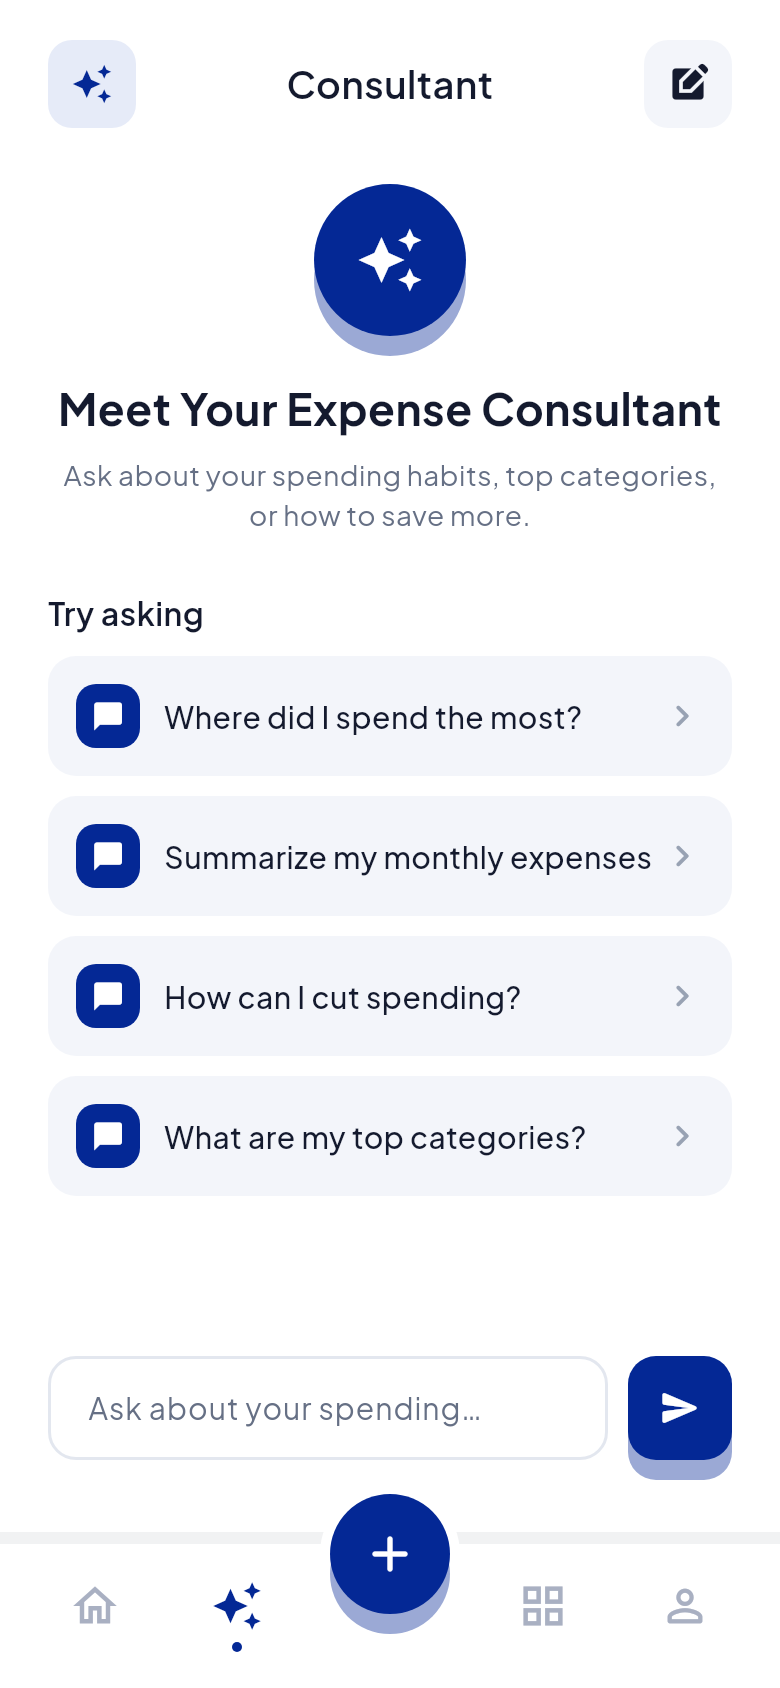
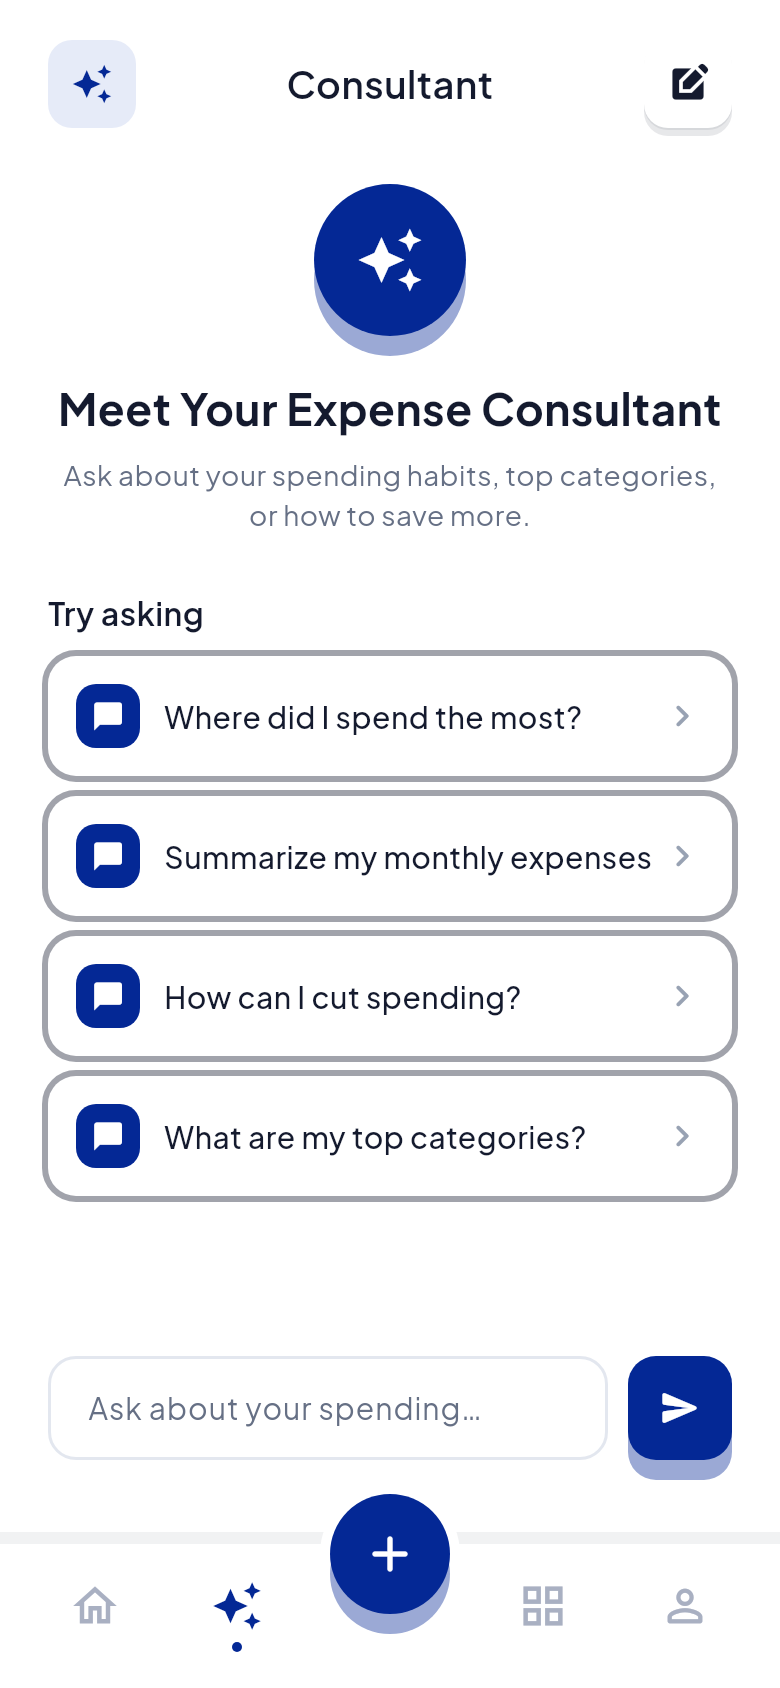
Theme work in progress

Changed region(s): [[0.0308, 0.3697, 0.9538, 0.7085], [0.0923, 0.7085, 0.9231, 0.7393], [0.0308, 0.6469, 0.0923, 0.7085]]

diff --git a/lib/core/theme/widgets.dart b/lib/core/theme/widgets.dart
@@ -4,6 +4,62 @@ import 'tokens.dart';
 
 bool isDarkOf(BuildContext context) => Theme.of(context).brightness == Brightness.dark;
 
+/// Raised surface for icon buttons, chips and small panels: white with a
+/// soft drop shadow in light mode (no grey fill); a lifted dark tone in dark.
+BoxDecoration raisedDecoration(
+  BuildContext context, {
+  double radius = AppRadius.md,
+  List<BoxShadow> shadow = AppShadows.iconButton,
+  BoxShape shape = BoxShape.rectangle,
+}) {
+  final dark = isDarkOf(context);
+  return BoxDecoration(
+    color: dark ? AppColors.darkSurfaceSubtle : Colors.white,
+    shape: shape,
+    borderRadius: shape == BoxShape.circle ? null : BorderRadius.circular(radius),
+    boxShadow: dark ? null : shadow,
+  );
+}
+
+/// For [Material]-based chips and cards: white, lifted by elevation.
+Color raisedColor(BuildContext context) => isDarkOf(context) ? AppColors.darkSurfaceSubtle : Colors.white;
+double raisedElevation(BuildContext context) => isDarkOf(context) ? 0 : 3;
+const raisedShadowColor = Color(0x66141A2E);
+
+/// [Material] + [InkWell] on top of [raisedDecoration] so taps ripple.
+class RaisedSurface extends StatelessWidget {
+  const RaisedSurface({
+    super.key,
+    required this.child,
+    this.onTap,
+    this.radius = AppRadius.md,
+    this.shadow = AppShadows.iconButton,
+    this.inkKey,
+  });
+
+  final Widget child;
+  final VoidCallback? onTap;
+  final double radius;
+  final List<BoxShadow> shadow;
+  final Key? inkKey;
+
+  @override
+  Widget build(BuildContext context) {
+    return DecoratedBox(
+      decoration: raisedDecoration(context, radius: radius, shadow: shadow),
+      child: Material(
+        type: MaterialType.transparency,
+        child: InkWell(
+          key: inkKey,
+          borderRadius: BorderRadius.circular(radius),
+          onTap: onTap,
+          child: child,
+        ),
+      ),
+    );
+  }
+}
+
 /// 44px soft-grey square icon button used in every screen header.
 class SquareIconButton extends StatelessWidget {
   const SquareIconButton({
@@ -24,17 +80,12 @@ class SquareIconButton extends StatelessWidget {
     final scheme = Theme.of(context).colorScheme;
     return Tooltip(
       message: tooltip,
-      child: Material(
-        color: scheme.surfaceContainerHighest,
-        borderRadius: BorderRadius.circular(AppRadius.md),
-        child: InkWell(
-          borderRadius: BorderRadius.circular(AppRadius.md),
-          onTap: onTap,
-          child: SizedBox(
-            width: 44,
-            height: 44,
-            child: Icon(icon, size: 21, color: color ?? scheme.onSurface, semanticLabel: tooltip),
-          ),
+      child: RaisedSurface(
+        onTap: onTap,
+        child: SizedBox(
+          width: 44,
+          height: 44,
+          child: Icon(icon, size: 21, color: color ?? scheme.onSurface, semanticLabel: tooltip),
         ),
       ),
     );

diff --git a/lib/features/consultant/ui/consultant_screen.dart b/lib/features/consultant/ui/consultant_screen.dart
@@ -193,7 +193,9 @@ class _ConsultantScreenState extends State<ConsultantScreen> {
             Padding(
               padding: const EdgeInsets.only(bottom: 10),
               child: Material(
-                color: scheme.surfaceContainerHighest,
+                color: raisedColor(context),
+                elevation: raisedElevation(context),
+                shadowColor: raisedShadowColor,
                 borderRadius: BorderRadius.circular(AppRadius.lg),
                 child: InkWell(
                   onTap: () => _handleSend(prompt),
@@ -238,7 +240,7 @@ class _ConsultantScreenState extends State<ConsultantScreen> {
     final bubble = Container(
       padding: EdgeInsets.symmetric(horizontal: 16, vertical: isUser ? 12 : 14),
       decoration: BoxDecoration(
-        color: isUser ? scheme.primary : scheme.surfaceContainerHighest,
+        color: isUser ? scheme.primary : (isDarkOf(context) ? AppColors.darkSurfaceSubtle : const Color(0xFFF7F8FC)),
         borderRadius: BorderRadius.only(
           topLeft: Radius.circular(isUser ? 18 : 4),
           topRight: const Radius.circular(18),
@@ -299,7 +301,9 @@ class _ConsultantScreenState extends State<ConsultantScreen> {
           final first = index == 0;
           return Material(
             key: Key('consultant-chip-$index'),
-            color: first ? scheme.primaryContainer : scheme.surfaceContainerHighest,
+            color: first ? scheme.primaryContainer : raisedColor(context),
+            elevation: first ? 0 : raisedElevation(context),
+            shadowColor: raisedShadowColor,
             borderRadius: BorderRadius.circular(10),
             child: InkWell(
               borderRadius: BorderRadius.circular(10),

diff --git a/lib/core/theme/theme_toggle_button.dart b/lib/core/theme/theme_toggle_button.dart
@@ -2,7 +2,7 @@ import 'package:flutter/material.dart';
 import 'package:flutter_bloc/flutter_bloc.dart';
 
 import 'theme_cubit.dart';
-import 'tokens.dart';
+import 'widgets.dart';
 
 /// Square sun/moon header button that flips between light and dark mode.
 class ThemeToggleButton extends StatelessWidget {
@@ -16,14 +16,10 @@ class ThemeToggleButton extends StatelessWidget {
 
     return Tooltip(
       message: label,
-      child: Material(
-        color: scheme.surfaceContainerHighest,
-        borderRadius: BorderRadius.circular(AppRadius.md),
-        child: InkWell(
-          key: const Key('theme-toggle'),
-          borderRadius: BorderRadius.circular(AppRadius.md),
-          onTap: () => context.read<ThemeCubit>().toggle(),
-          child: SizedBox(
+      child: RaisedSurface(
+        inkKey: const Key('theme-toggle'),
+        onTap: () => context.read<ThemeCubit>().toggle(),
+        child: SizedBox(
             width: 44,
             height: 44,
             child: AnimatedSwitcher(
@@ -41,7 +37,6 @@ class ThemeToggleButton extends StatelessWidget {
               ),
             ),
           ),
-        ),
       ),
     );
   }

diff --git a/lib/features/expenses/ui/expense_form_sheet.dart b/lib/features/expenses/ui/expense_form_sheet.dart
@@ -260,10 +260,7 @@ class _WeekStrip extends StatelessWidget {
     return Container(
       key: const Key('week-strip'),
       padding: const EdgeInsets.fromLTRB(8, 8, 8, 12),
-      decoration: BoxDecoration(
-        color: scheme.surfaceContainerHighest,
-        borderRadius: BorderRadius.circular(18),
-      ),
+      decoration: raisedDecoration(context, radius: 18, shadow: AppShadows.panel),
       child: Column(
         children: [
           Row(
@@ -357,7 +354,9 @@ class _CategoryChip extends StatelessWidget {
     final scheme = Theme.of(context).colorScheme;
     final color = Color(category.color);
     return Material(
-      color: selected ? scheme.primary : scheme.surfaceContainerHighest,
+      color: selected ? scheme.primary : raisedColor(context),
+      elevation: selected ? 0 : raisedElevation(context),
+      shadowColor: raisedShadowColor,
       borderRadius: BorderRadius.circular(AppRadius.md),
       child: InkWell(
         borderRadius: BorderRadius.circular(AppRadius.md),

diff --git a/lib/features/account/ui/account_section.dart b/lib/features/account/ui/account_section.dart
@@ -34,7 +34,7 @@ class AccountProfileHeader extends StatelessWidget {
                 width: 104,
                 height: 104,
                 decoration: BoxDecoration(
-                  color: signedIn ? scheme.primary : scheme.surfaceContainerHighest,
+                  color: signedIn ? scheme.primary : scheme.primaryContainer,
                   shape: BoxShape.circle,
                 ),
                 alignment: Alignment.center,
@@ -43,7 +43,7 @@ class AccountProfileHeader extends StatelessWidget {
                         name.isEmpty ? '?' : name[0].toUpperCase(),
                         style: const TextStyle(fontSize: 42, fontWeight: FontWeight.w700, color: Colors.white),
                       )
-                    : Icon(Icons.person_rounded, size: 52, color: scheme.onSurfaceVariant),
+                    : Icon(Icons.person_rounded, size: 52, color: scheme.onPrimaryContainer),
               ),
               if (signedIn)
                 Positioned(

diff --git a/lib/core/theme/tokens.dart b/lib/core/theme/tokens.dart
@@ -245,4 +245,17 @@ class AppShadows {
   ];
 
   static const inkChip = <BoxShadow>[];
+
+  /// White icon buttons, chips and small cards: a soft drop shadow gives
+  /// the raised, 3D look instead of a grey fill.
+  static const iconButton = [
+    BoxShadow(color: Color(0x1A141A2E), blurRadius: 14, offset: Offset(0, 4)),
+    BoxShadow(color: Color(0x14141A2E), blurRadius: 3, offset: Offset(0, 1)),
+  ];
+
+  /// Larger white panels (week strip, prompt cards).
+  static const panel = [
+    BoxShadow(color: Color(0x14141A2E), blurRadius: 20, offset: Offset(0, 6)),
+    BoxShadow(color: Color(0x0F141A2E), blurRadius: 3, offset: Offset(0, 1)),
+  ];
 }

diff --git a/docs/design/blue/DESIGN_TOKENS.md b/docs/design/blue/DESIGN_TOKENS.md
@@ -18,7 +18,7 @@ The code version of these tokens is `lib/core/theme/tokens.dart`, and `lib/core/
 | `primaryLight` | `#E6EBF8` | `#1A2A5C` | Tinted icon backgrounds, first prompt chip |
 | `onPrimaryMuted` | `#D6DEF7` | — | Secondary text on the blue card |
 | `background` / `surface` | `#FFFFFF` | `#0B1020` / `#141A2E` | Screens |
-| `surfaceSubtle` | `#F3F5FA` | `#1E2640` | Square header buttons, chips, calendar strip, assistant bubbles |
+| `surfaceSubtle` | `#F6F7F9` | `#1E2640` | Rarely used. Icon buttons, chips and panels are **white with a drop shadow**, not grey (see Elevation) |
 | `ink` | `#141A2E` | `#F4F6FB` | Text |
 | `textSecondary` | `#667085` | `#A3ABC2` | Captions, timestamps |
 | `navInactive` | `#A9B0C2` | `#A3ABC2` | Inactive nav icons |
@@ -67,6 +67,8 @@ The app uses **Plus Jakarta Sans**, bundled in `assets/fonts` (SIL OFL). Amounts
 | `heroCard` | `0 14 30` `#042895` at 28% | Spent card |
 | `fab` | `0 10 24` `#042895` at 40% | Add button, send button |
 | `button` | `0 12 26` `#042895` at 32% | Primary buttons |
+| `iconButton` | `0 4 14` ink at 10% + `0 1 3` ink at 8% | Square header buttons, unselected chips (raised, 3D look) |
+| `panel` | `0 6 20` ink at 8% + `0 1 3` ink at 6% | Week strip, prompt cards |
 | `navBar` | `0 −6 24` ink at 6% | Bottom nav |
 
 In dark mode, shadows are dropped and thin borders are used instead.
